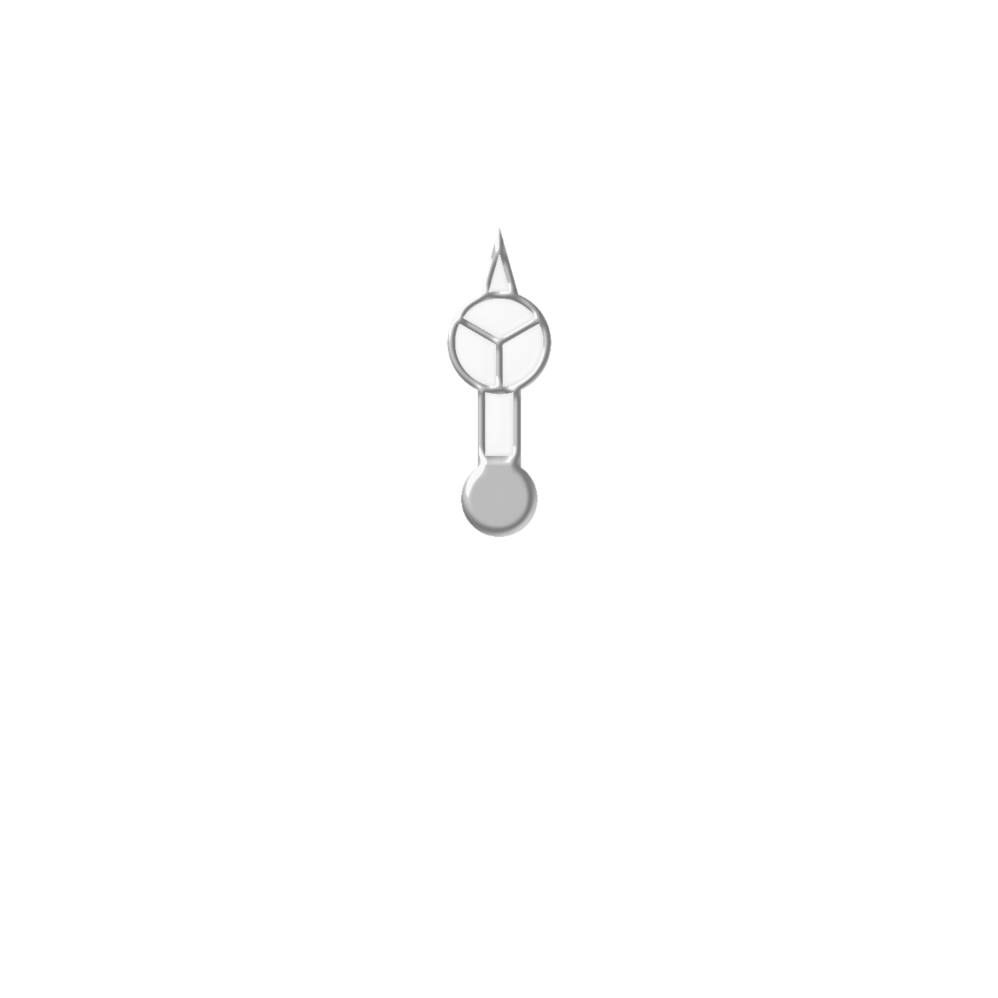
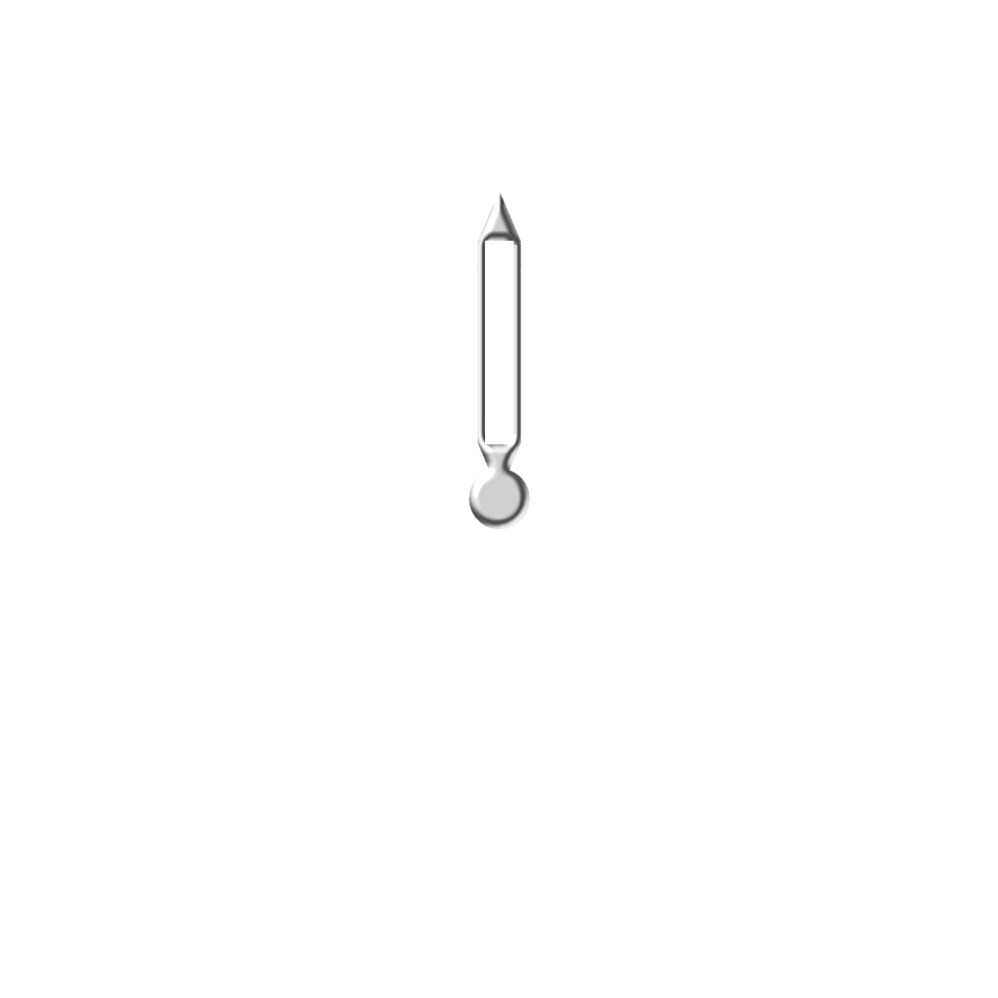
fix

Changed region(s): [[0.4349, 0.1864, 0.5591, 0.5591]]

diff --git a/app/root.tsx b/app/root.tsx
@@ -37,7 +37,7 @@ export async function loader() {
     filename = await drawClockGif(
       now,
       baseUrl + "/fc-perpetual.png",
-      baseUrl + "/minute-silver.png",
+      baseUrl + "/hour-silver.png",
       baseUrl + "/minute-silver.png",
       baseUrl + "/second-silver.png"
     );
@@ -47,7 +47,7 @@ export async function loader() {
     title: "title",
     description: "description",
     aspectRatio: "1:1",
-    cacheTtlSeconds: 30,
+    cacheTtlSeconds: 60,
     image: `${baseUrl}/images/${filename}`,
     buttons: [
       {

diff --git a/app/utils.ts b/app/utils.ts
@@ -202,15 +202,7 @@ export const drawClockGif = async (
     const hoursAngle =
       ((frame.getHours() % 12) / 12) * (2 * Math.PI) + minutesAngle / 12;
 
-    await drawHand(
-      context,
-      hourHandPath,
-      hoursAngle,
-      centerX,
-      centerY,
-      0.18,
-      0.27
-    );
+    await drawHand(context, hourHandPath, hoursAngle, centerX, centerY, 0.25);
     await drawHand(
       context,
       minuteHandPath,
